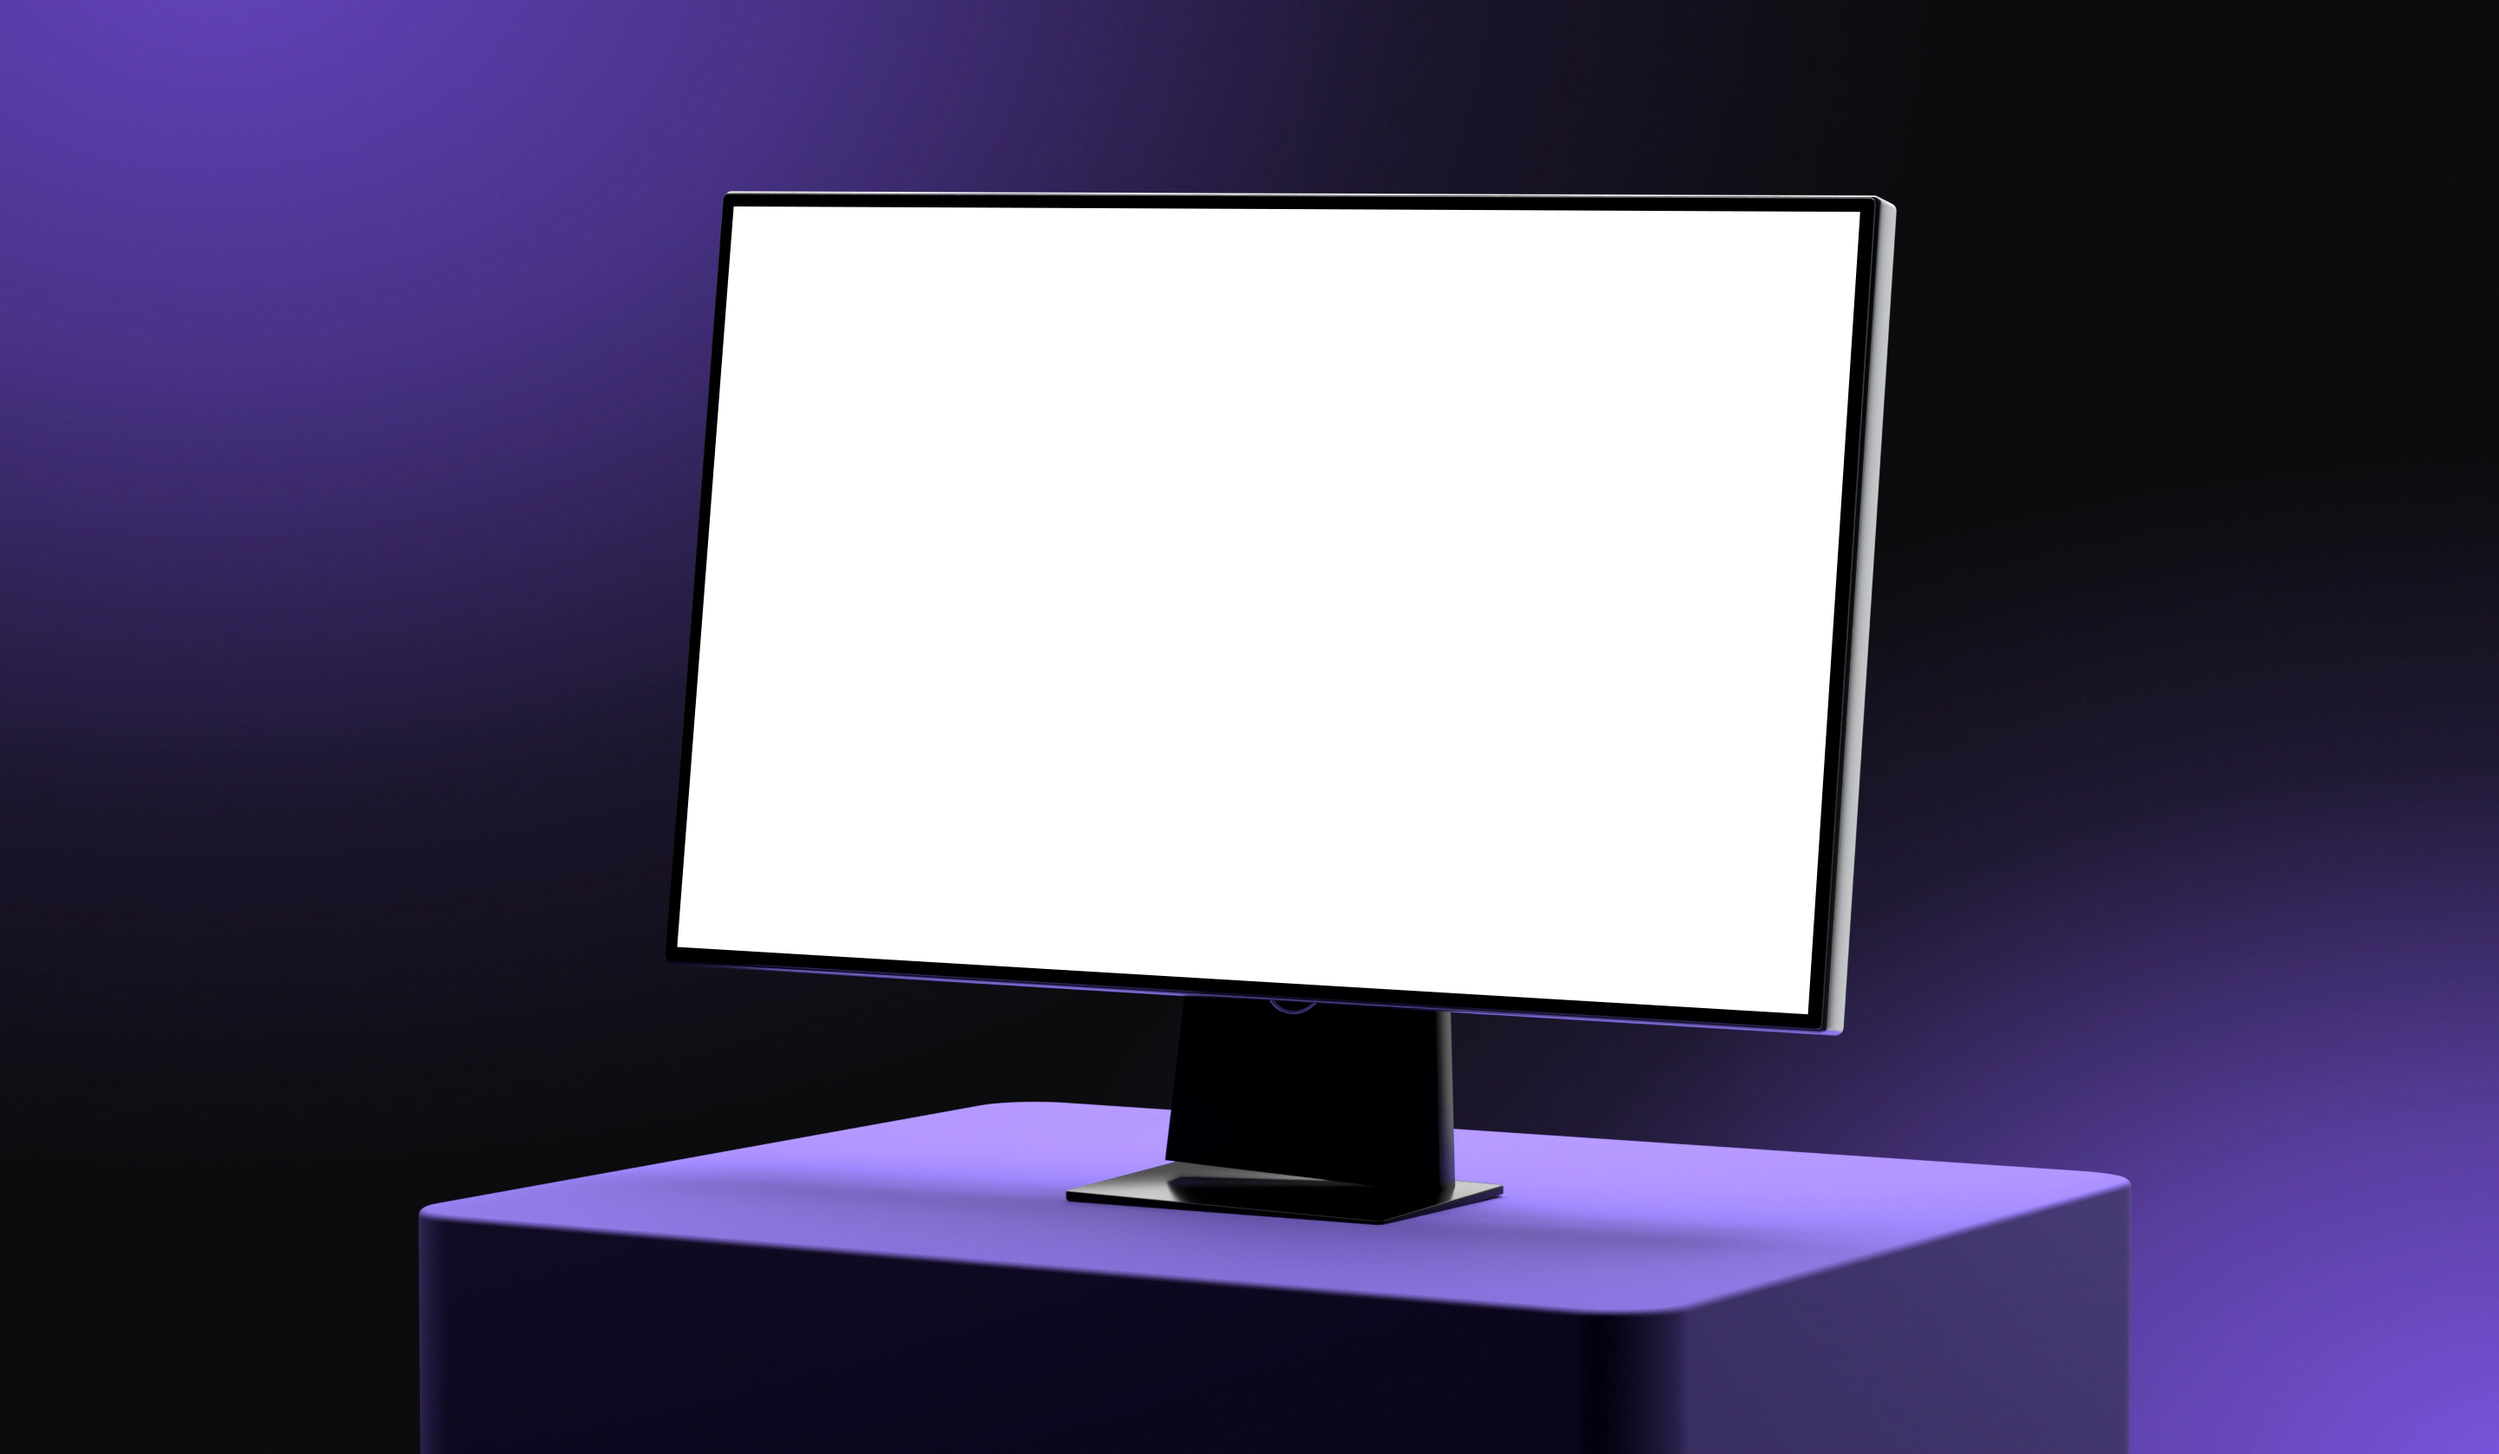
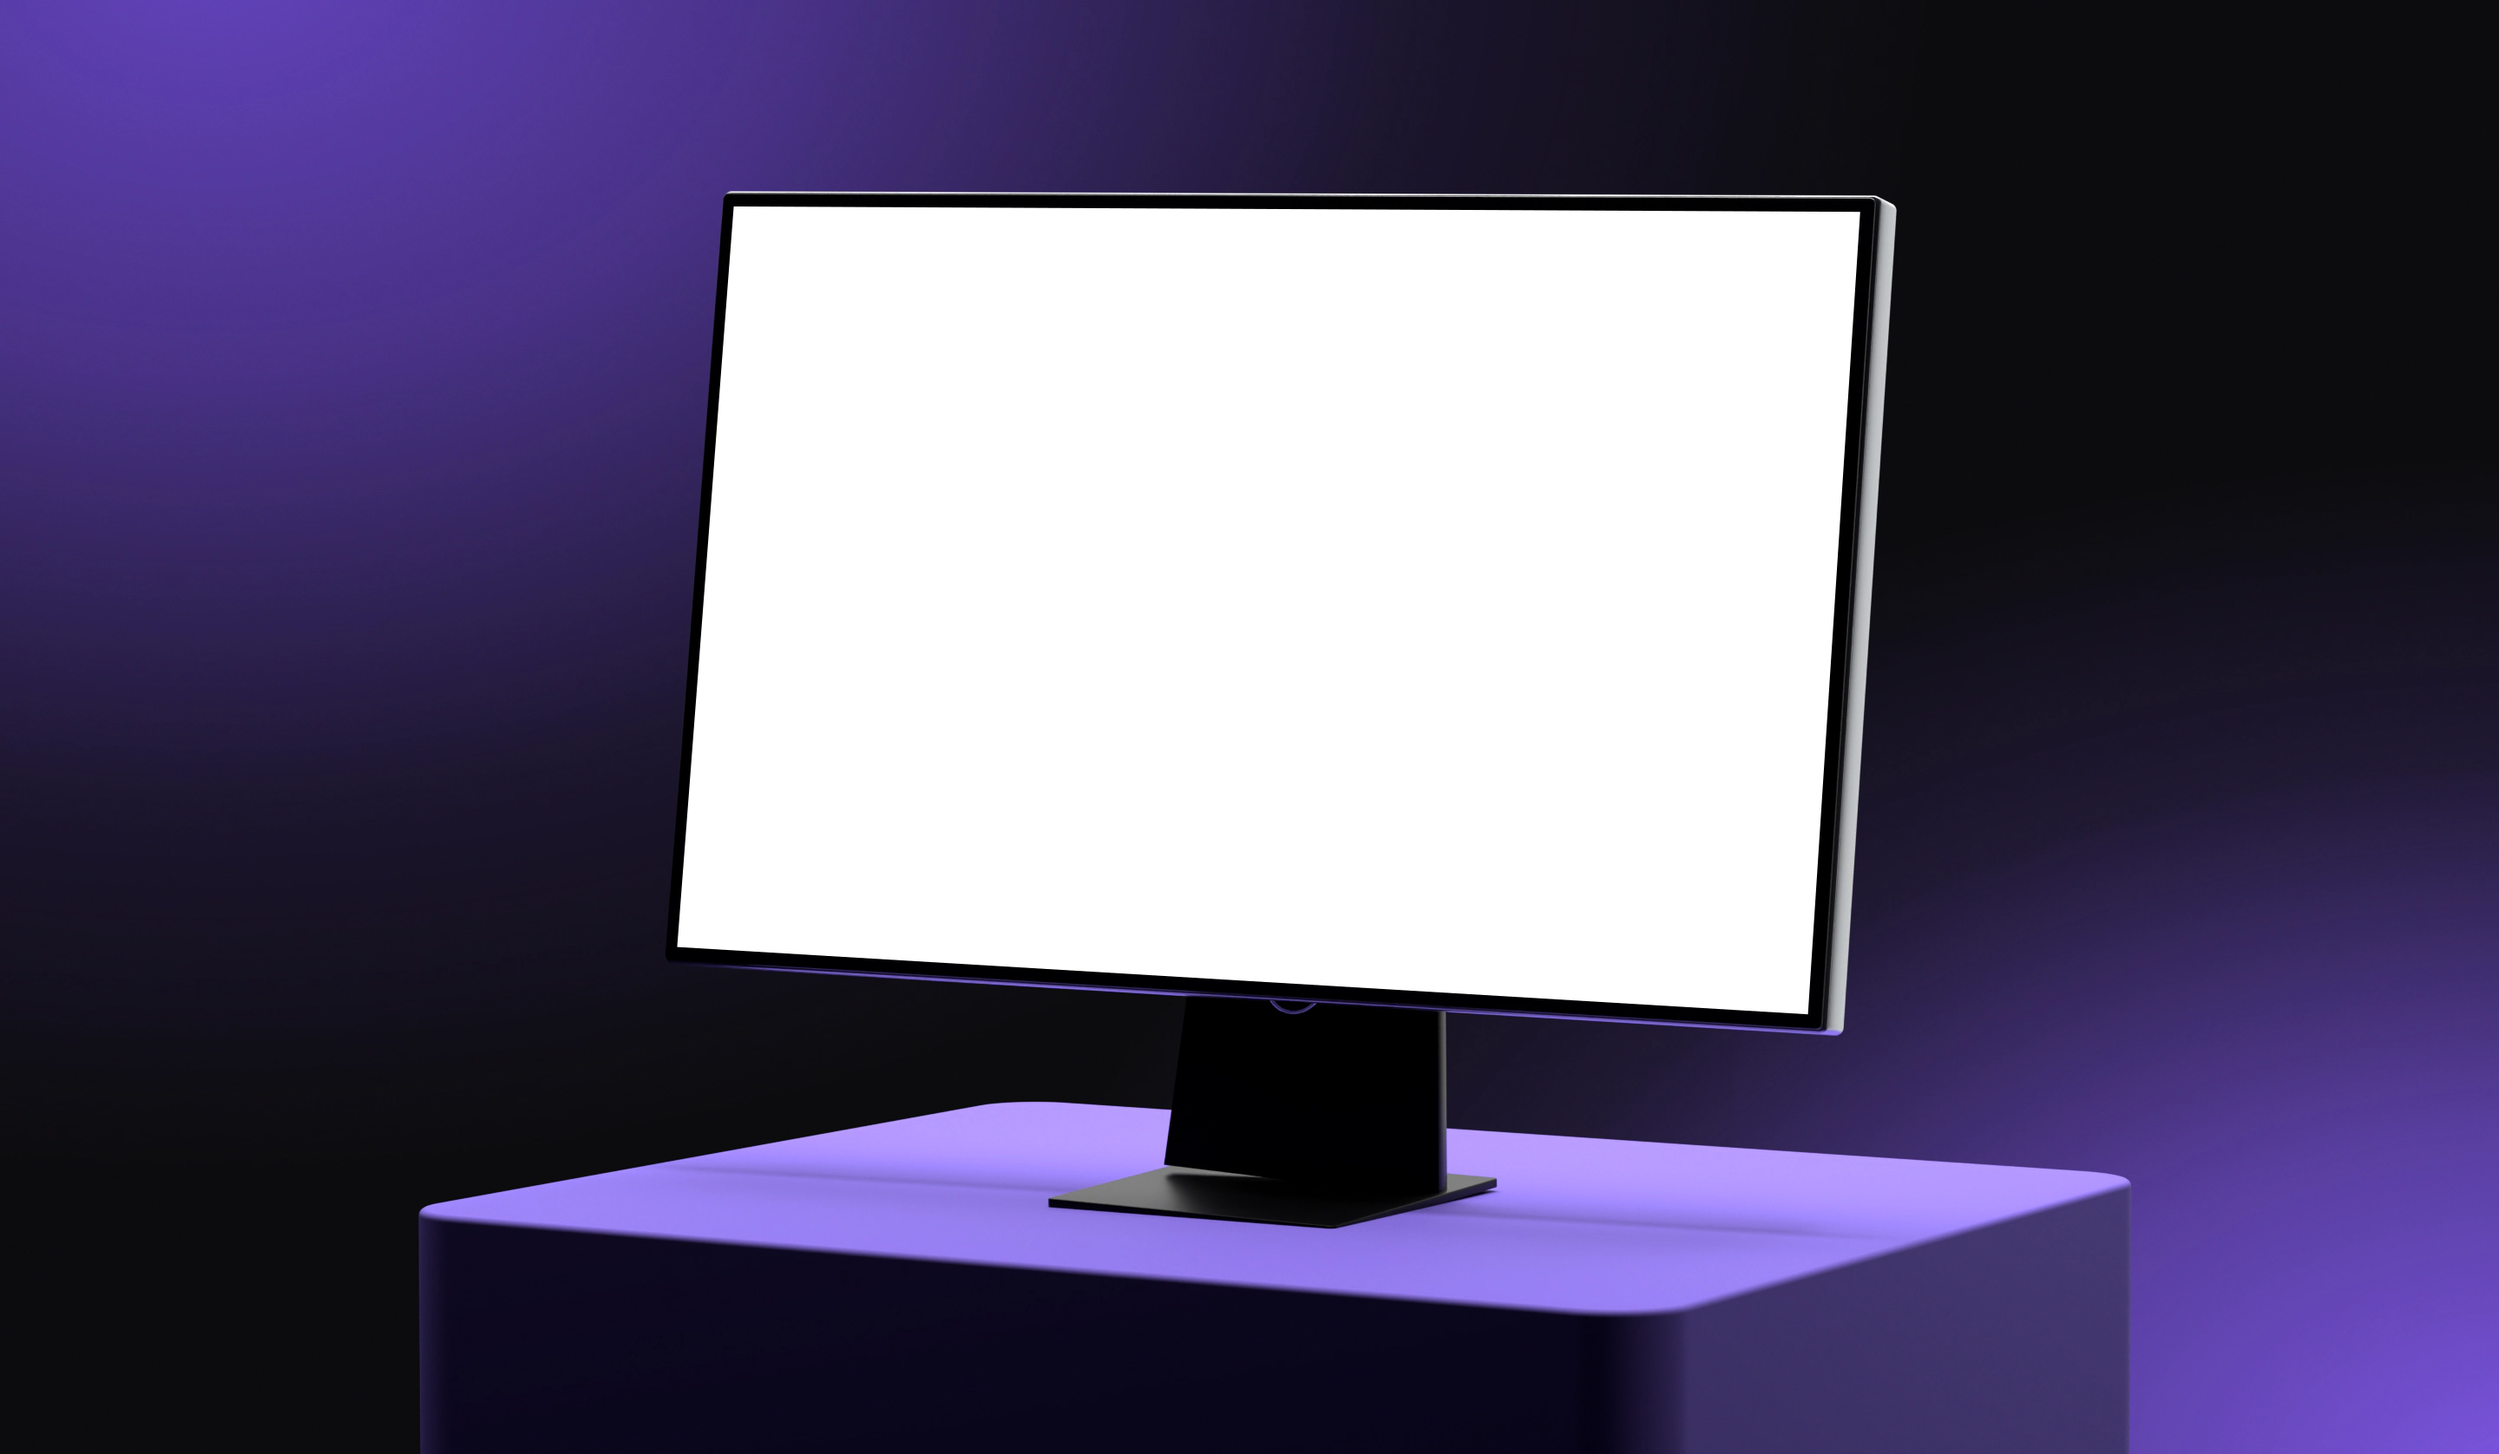
Devsign cover: stand and foot fitted to the reference, no mirrored neck

Changed region(s): [[0.25, 0.7446, 0.7188, 0.8998]]

diff --git a/scripts/cover-3d/blender_scene.py b/scripts/cover-3d/blender_scene.py
@@ -13,7 +13,7 @@ H = round(W * 838 / 1440)
 FOV, CAM, LOOK = 12.85, (0, 2.0, 11), (0, 1.0, 0)
 YAW, TILT, MON = -0.43, -0.17, (-0.01, 1.228, -0.02)
 PL, PC, PY, PX, PYAW, PTILT = (2.38, 3, 1.96), 0.13, 0.195, 0.07, -0.53, -0.036
-FOOT, FS, NB, NT, NX = (0.09, 0.05), (0.62, 0.44), 0.52, 0.45, 0.12
+FOOT, FS, NB, NT, NX = (0.075, 0.06), (0.56, 0.58), 0.52, 0.45, 0.12
 SW, SH, BZ, TH = 2.12, 1.325, 0.024, 0.085
 
 C = Matrix.Rotation(math.radians(90), 4, 'X')  # three (y up) to Blender (z up)
@@ -48,7 +48,7 @@ def mat(name, color, rough, metal=0.0, coat=0.0, spec=0.5):
 PURPLE = mat('plinth', '#8f76e8', 0.7, spec=0.04)
 SILVER = mat('silver', '#c9cdd0', 0.26, metal=1)
 BLACKM = mat('stand', '#0b0b0d', 0.3, metal=1)
-FOOTM = mat('foot', '#101012', 0.2, metal=1)
+FOOTM = mat('foot', '#141416', 0.42, metal=1)
 GLASS = mat('bezel', '#040405', 0.12, coat=1)
 
 def rounded(w, d, r, seg=24):
@@ -116,11 +116,12 @@ solid('foot', rounded(FS[0], FS[1], 0.012, 8), -0.008, 0.008, RIG @ T(FOOT[0], P
 
 # Neck: between the back of the monitor and the foot.
 pa = RIG.inverted() @ MONM @ Vector((NX, -SH * 0.42, -0.13))
-pb = Vector((FOOT[0], PY + 0.03, FOOT[1] - 0.1))
+pb = Vector((0.09, PY + 0.022, -0.03))
 d = pa - pb
-q = Vector((0, 1, 0)).rotation_difference(d.normalized())
-nm = RIG @ T(*((pa + pb) / 2)) @ q.to_matrix().to_4x4() @ Matrix.Diagonal((1, d.length, 1, 1))
-solid('neck', [(-NB/2, -0.5), (NB/2, -0.5), (NT/2, 0.5), (-NT/2, 0.5)], -0.035, 0.035, nm, BLACKM, bevel=0.003, bseg=2)
+yy = d.normalized(); zz = Vector((1, 0, 0)).cross(yy).normalized(); xx = yy.cross(zz)
+q = Matrix((xx, yy, zz)).transposed()
+nm = RIG @ T(*((pa + pb) / 2)) @ q.to_4x4() @ Matrix.Diagonal((1, d.length, 1, 1))
+solid('neck', [(-NB/2, -0.5), (NB/2, -0.5), (NT/2, 0.5), (-NT/2, 0.5)], -0.02, 0.02, nm, BLACKM, bevel=0.003, bseg=2)
 
 # Camera
 cd = bpy.data.cameras.new('cam'); cd.sensor_fit = 'VERTICAL'; cd.angle = math.radians(FOV)
@@ -140,7 +141,8 @@ def area(name, loc, target, size, size_y, power, color=(1, 1, 1)):
     o.rotation_euler = (C @ Vector(target) - o.location).to_track_quat('-Z', 'Y').to_euler()
     return o
 
-area('top', (0.4, 6.0, -2.0), (0.2, 0.2, -0.3), 9, 4.4, 720)
+area('top', (0.4, 6.0, -2.0), (0.2, 0.2, -0.3), 9, 4.4, 480)
+area('over', (0.4, 7.0, -0.5), (0.3, 0.2, -0.4), 5, 1.4, 280)
 area('right', (7.5, 0.4, 2.2), (0.6, -0.4, 0), 1.6, 5, 26)
 area('edge', (6.2, 0.5, -6.6), (0.6, 0.5, 0), 5, 12, 170)
 area('back', (-0.5, 3.4, -10), (0, 0.2, 0), 12, 3, 260)
